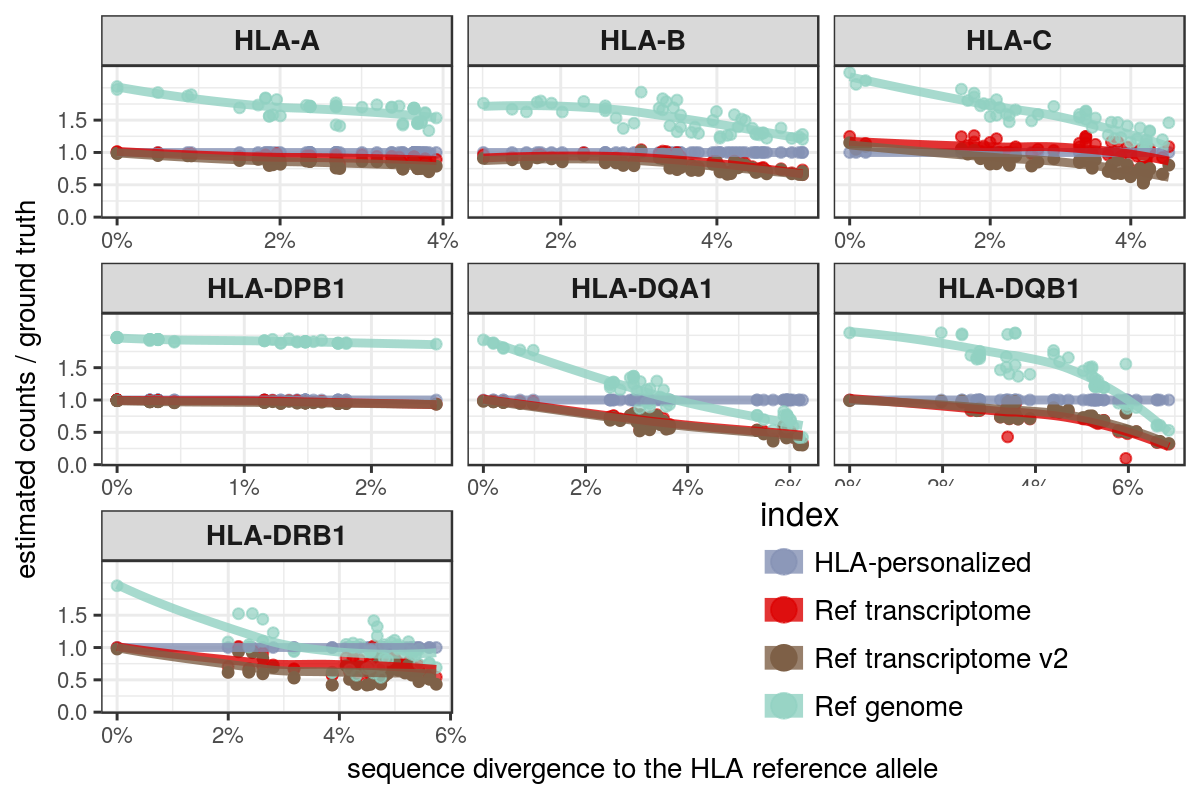
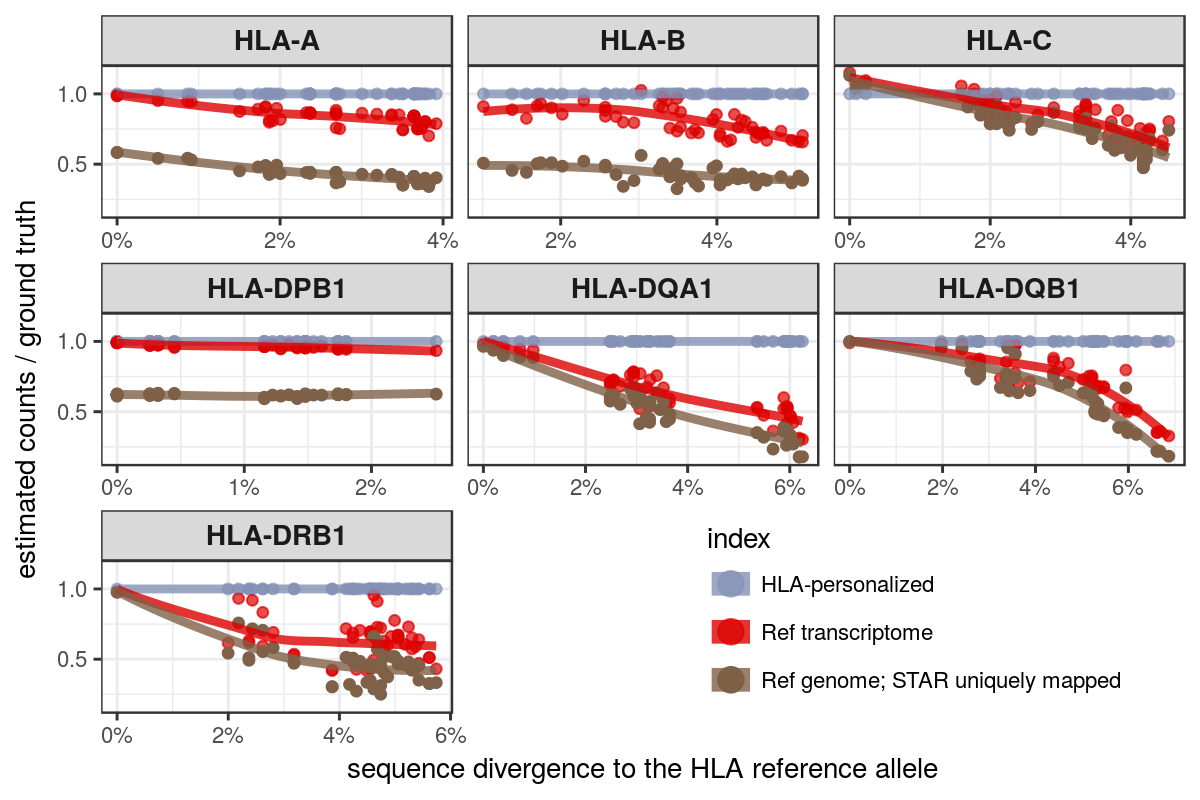
add STAR GeneCounts to plot

diff --git a/simulation/report.md b/simulation/report.md
@@ -24,16 +24,13 @@ Expression
 Pipelines:
 ----------
 
--   Ref Genome: primary assembly of reference genome GRCh38; mapped with STAR, quantified with QTLtools quan
--   Ref transcriptome: transcripts from Ref Genome; mapped with STAR, quantified with Salmon
--   Ref transcriptome v2: reads mapped to Ref Genome with STAR, which creates alignments to transcripts given Gencode annotations; quantified with Salmon
 -   HLA-personalized: Ref transcriptome where HLA transcripts were replace by IMGT CDS sequences; mapped with STAR, quantified with Salmon
+-   Ref transcriptome: reads mapped to Ref Genome with STAR, which creates alignments to transcripts given Gencode annotations; quantified with Salmon
+-   Ref Genome: primary assembly of reference genome GRCh38; mapped with STAR --quantMode GeneCounts
 
 <img src="./plots/star_prop_mapped.png" width="1200" />
 
-**Note 1** To check: there is something strange about the genomic mappings above.
-
-**Note 2** I also tried an alternative to replace the inefficient and time-consuming 1st round of the HLA-personalized pipeline. It consists in:
+**Note** I also tried an alternative to replace the inefficient and time-consuming 1st round of the HLA-personalized pipeline. It consists in:
 
 1.  Map to the genome, and filter the reads mapping to HLA-A, -C, -B, -DRB1, -DQA1, -DQB1 and -DPB1, or unmapped.
 2.  Map these reads to the IMGT portion only.
